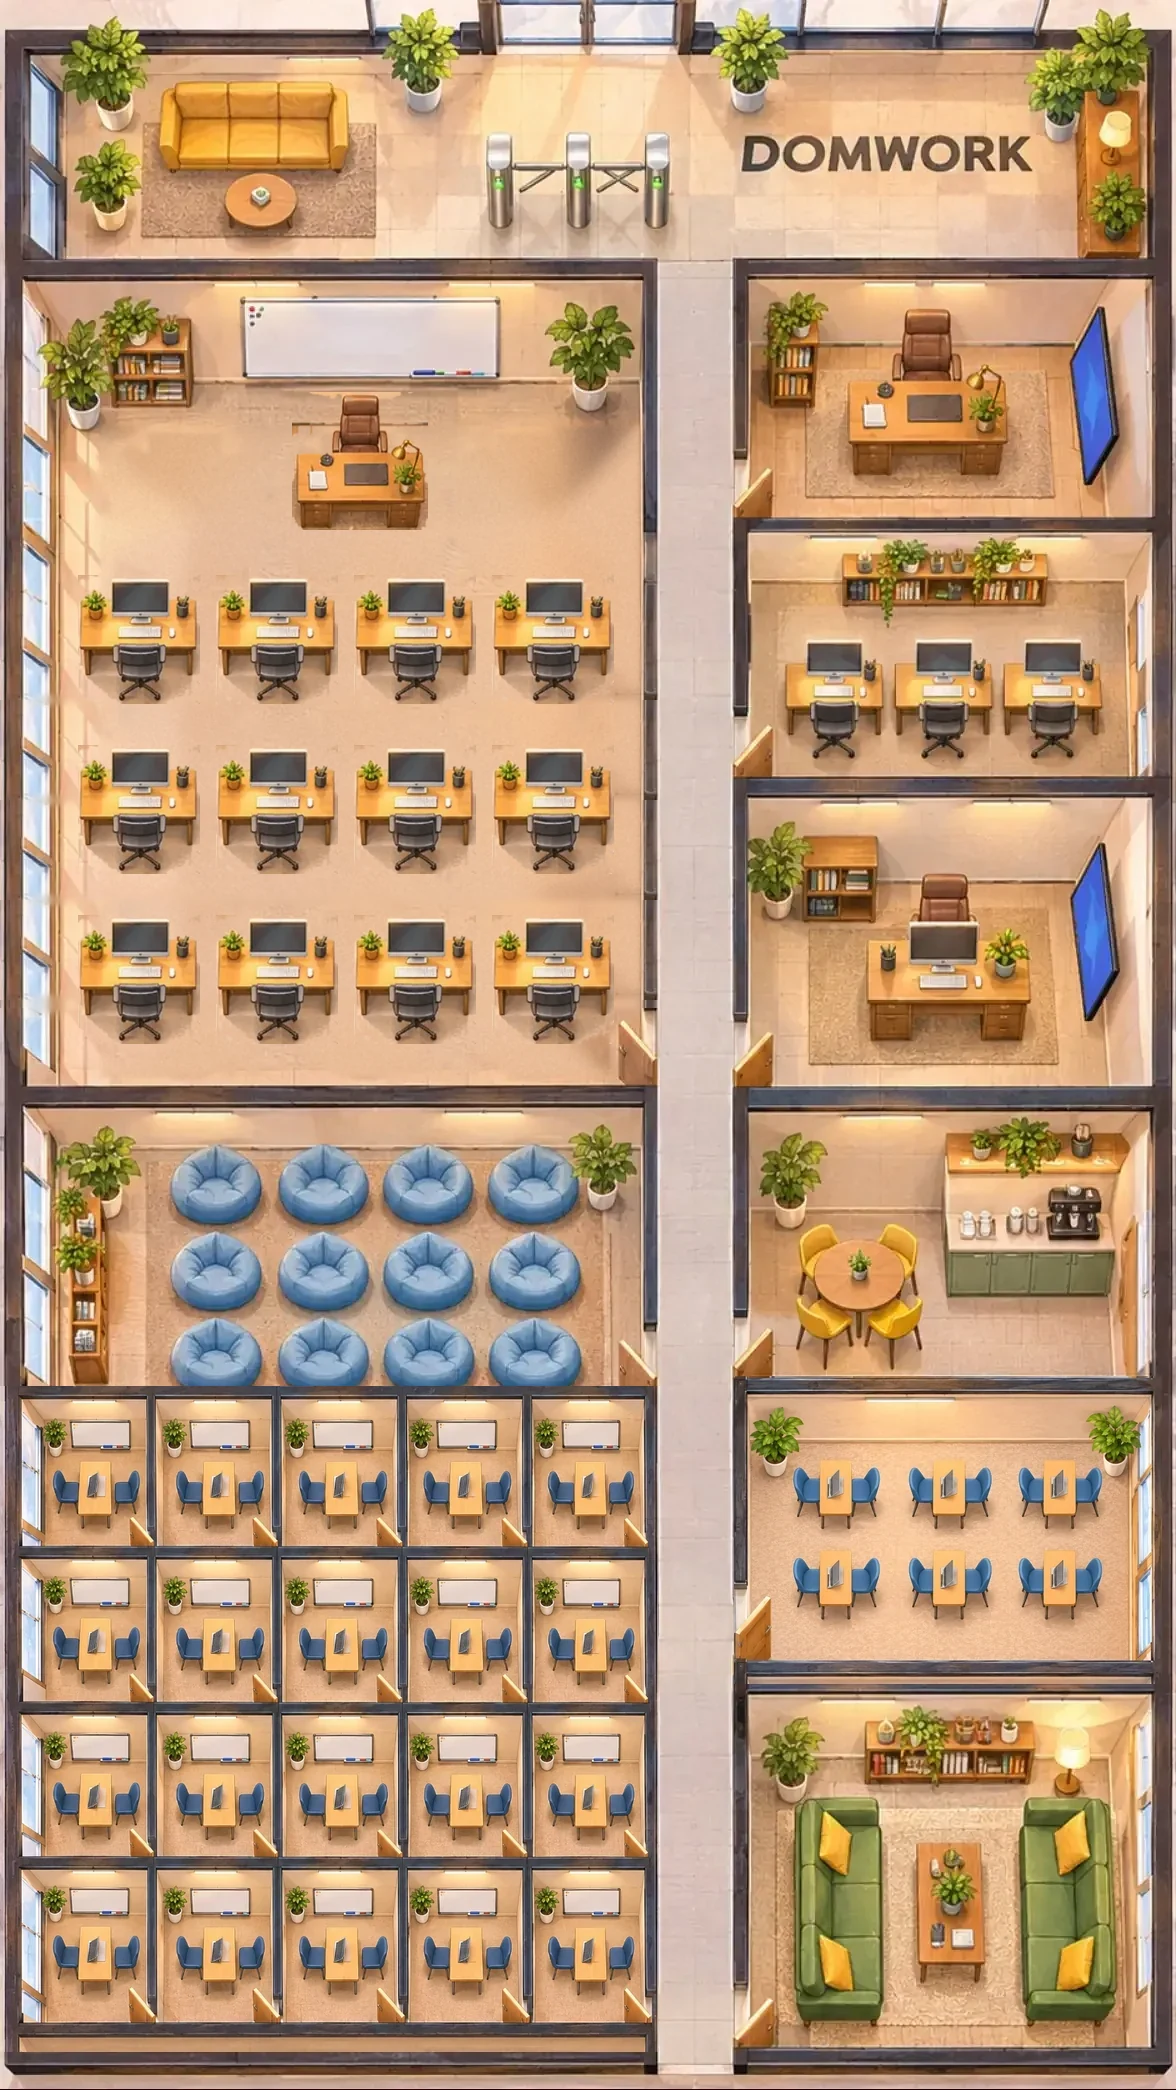
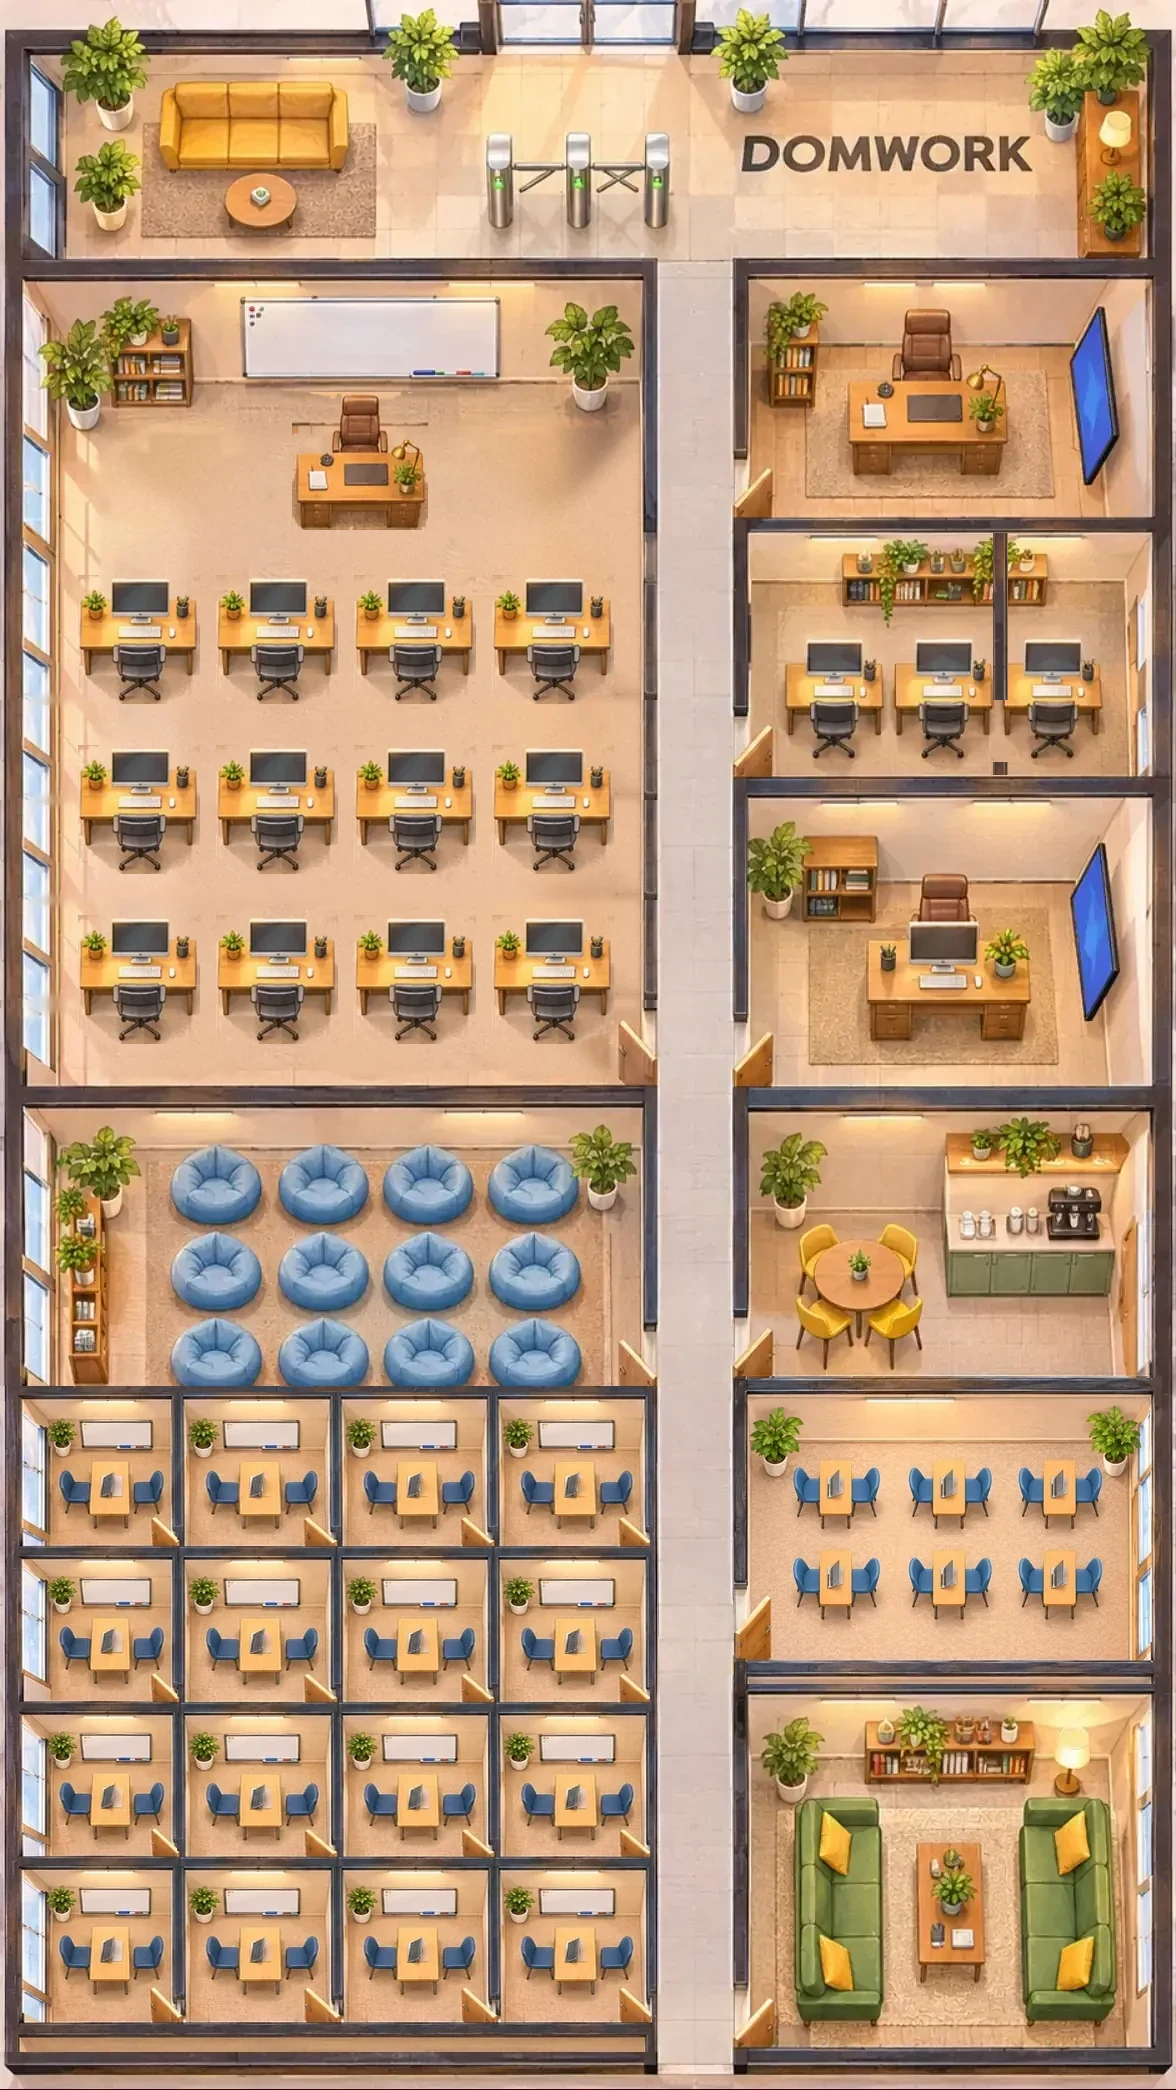
Ofis: 16 kabinka, akademik bo'lim ichki xona, Rahbar xonasi

Changed region(s): [[0.0, 0.6531, 0.551, 0.9952], [0.8265, 0.2488, 0.8571, 0.3421]]

diff --git a/ofis/ofis.js b/ofis/ofis.js
@@ -6,8 +6,8 @@ const W0 = 800, H0 = 1440, DX = 505;
 const R = {
  entrance:{x:0,y:0,w:800,h:140,label:'Kirish · Face ID',ny:145},
  sotuv:{x:0,y:150,w:495,h:650,label:"Sotuv bo'limi",ny:335},
- rop:{x:515,y:150,w:285,h:180,label:'Akademik rahbar',ny:240},
- akad:{x:515,y:340,w:285,h:180,label:'Yordamchi ustozlar',ny:430},
+ rop:{x:515,y:150,w:285,h:180,label:'Rahbar',ny:240},
+ akad:{x:515,y:340,w:285,h:180,label:"Akademik bo'lim",ny:430},
  hr:{x:515,y:530,w:285,h:270,label:'HR · Marketing',ny:665},
  oquv:{x:0,y:810,w:495,h:190,label:"O'quvchilar · mobil ilova",ny:905},
  oshxona:{x:515,y:810,w:285,h:190,label:'Oshxona · tanaffus',ny:905},
@@ -39,7 +39,7 @@ const esc=s=>String(s??'').replace(/[&<>"']/g,c=>({'&':'&amp;','<':'&lt;','>':'&
 const hash=s=>{let h=0;for(const c of String(s))h=(h*31+c.charCodeAt(0))|0;return Math.abs(h)};
 const SKIN=['#F2C9A0','#E8B58C','#D9A27A','#F5D3B3'],HAIR=['#2B1B12','#4A2E1C','#1B1B1B','#6B3E22'];
 const SH=['#1F4FD8','#0EA5E9','#7C3AED','#DB2777','#059669','#EA580C','#334155','#CA8A04'];
-const KIND_LABEL={mgr:'Sotuv menejeri',rop:'ROP',akad:'Akademik rahbar',yord:'Yordamchi ustoz',hr:'HR',teacher:'Ustoz'};
+const KIND_LABEL={boss:'Rahbar',mgr:'Sotuv menejeri',rop:'ROP',akad:'Akademik rahbar',yord:'Yordamchi ustoz',hr:'HR',teacher:'Ustoz'};
 const FEM=/a$|ya$|xon$|oy$|gul|nur|niso|sevar|zuhr|dil|mohi|shah?lo|lola|rano|feruz|kamol|madin/i;
 
 // ── Joylar (dunyo koordinatalari, rasmga IMAP orqali) ──
@@ -49,11 +49,15 @@ const MGR_SEATS=[];for(const r of [575,745,915])for(const c of [78,216,354,492])
 const ROP_DESK=(()=>{const w=illInv(361,425);return[w.x,w.y]})();
 // To'lov joyi — ROP stoli oldi (kassa xonasi yo'q); tushum ekrani sotuv xonasida.
 const PAY=(()=>{const w=illInv(361,555);return[w.x,w.y]})();
-const ROP_SEAT=[585,282], AK_SEATS=[[585,437],[670,437],[752,437],[630,480]], HR_SEAT=[600,692];
+const ROP_SEAT=[585,282], HR_SEAT=[600,692];
+// Akademik bo'lim (16-noy): kirishda yordamchi ustozlar (2 stol), devor ortida — akademik rahbar (ichkari, yordamchilar xonasi orqali kiriladi).
+const AK_SEATS=[[585,437],[670,437],[630,480],[560,480]], AKAD_IN=[752,437];
+const INNER=(()=>{const a=illInv(984,731),b=illInv(1018,731),w=illInv(1000,731);return{x:w.x,a,b}})();
 const BAGS=[];for(let r=0;r<3;r++)for(let c=0;c<4;c++)BAGS.push([52+c*108,887.4+r*39.4]);
 // Jonli darslar: 20 ta 1+1 kabinka (rasm koordinatalari). Har birida stol, chapda ustoz, o'ngda o'quvchi.
-const CABX=[97,220,343,467,591],CABY=[1488,1645,1800,1953],CWX=[20,151,276,401,528,650],CWY=[1392,1549,1707,1864,2025];
-const CAB=[];for(let r=0;r<4;r++)for(let c=0;c<5;c++)CAB.push({cx:CABX[c],cy:CABY[r],x0:CWX[c],x1:CWX[c+1],y0:CWY[r],y1:CWY[r+1]});
+// 16-noy: 4×4 = 16 ta kattaroq kabinka (avval 5×4 = 20 ta).
+const CABX=[112,261,419,576],CABY=[1488,1645,1800,1953],CWX=[20,177,335,492,650],CWY=[1392,1549,1707,1864,2025];
+const CAB=[];for(let r=0;r<4;r++)for(let c=0;c<4;c++)CAB.push({cx:CABX[c],cy:CABY[r],x0:CWX[c],x1:CWX[c+1],y0:CWY[r],y1:CWY[r+1]});
 // Sinov darslari zali: 6 ta 1+1 stol (rasm koordinatalari; ustoz chapda, o'quvchi o'ngda).
 const TRIAL_I=[[836,1485],[950,1485],[1060,1485],[836,1576],[950,1576],[1060,1576]];
 const LOUNGE=[[565,1305],[630,1305],[695,1305],[755,1305],[600,1392],[715,1392],[660,1260]];
@@ -74,7 +78,9 @@ function mkPerson(id,o){let p=people.get(id);if(p)return Object.assign(p,o);cons
 function moveTo(p,room,x,y,cb){const pts=[];
  if(p.room==='outside'){pts.push({x:400,y:95,gate:1});pts.push({x:DX,y:R.entrance.ny});p.room='entrance'}
  if(room==='outside'){if(p.room!=='entrance')pts.push({x:DX,y:R[p.room].ny});pts.push({x:DX,y:R.entrance.ny});pts.push({x:400,y:95,gate:2});pts.push({x:400,y:-34})}
- else{if(p.room!==room){pts.push({x:DX,y:R[p.room].ny});pts.push({x:DX,y:R[room].ny})}pts.push({x,y})}
+ else{if(p.room!==room){pts.push({x:DX,y:R[p.room].ny});pts.push({x:DX,y:R[room].ny})}if(room==='akad'&&x>INNER.x&&!(p.room==='akad'&&p.x>INNER.x&&!pts.length))pts.push(INNER.a,INNER.b);pts.push({x,y})}
+ // ichkari (akademik rahbar) xonasidan chiqish — eshik orqali
+ if(p.room==='akad'&&p.x>INNER.x&&p.visible&&!(room==='akad'&&x>INNER.x))pts.unshift({...INNER.b},{...INNER.a});
  p.path=pts;p.room=room;p.cb=cb}
 function place(p,room,x,y){p.room=room;p.x=x;p.y=y;p.path=[];p.visible=true}
 function say(p,icon,text,sec=6,color){if(p)p.bubble={icon,text,until:performance.now()+sec*1000,color}}
@@ -91,7 +97,7 @@ function mgrPos(s,k){if(!s.inOffice){mgrSeat.delete(s.id);return MGR_SEATS[k%MGR
  if(!mgrSeat.has(s.id)){const used=new Set(mgrSeat.values());let i=0;while(used.has(i))i++;mgrSeat.set(s.id,i)}
  const i=mgrSeat.get(s.id);if(i<MGR_SEATS.length)return MGR_SEATS[i];const w=illInv(110+((i-MGR_SEATS.length)%9)*58,560);return[w.x,w.y]}
 function seatFor(s,idx){if(s.kind==='mgr'){const k=idx.mgr++;return ['sotuv',...mgrPos(s,k)]}
- if(s.kind==='rop')return['sotuv',...ROP_DESK];if(s.kind==='akad')return['rop',...ROP_SEAT];if(s.kind==='yord'){const i=idx.ak++;return['akad',...(AK_SEATS[i]||[560+i*30,500])]}
+ if(s.kind==='rop')return['sotuv',...ROP_DESK];if(s.kind==='boss')return['rop',...ROP_SEAT];if(s.kind==='akad')return['akad',...AKAD_IN];if(s.kind==='yord'){const i=idx.ak++;return['akad',...(AK_SEATS[i]||[560+i*30,500])]}
  if(s.kind==='hr')return['hr',...HR_SEAT];return['hr',650+idx.x++*25,760]}
 const LUNCH_SEATS=[[560,880],[610,880],[660,880],[710,880],[760,880],[560,950],[610,950],[660,950],[710,950],[760,950]];
 function breakSpot(s,idx){if(s.now==='lunch'||s.now==='lunch_late'){const i=idx.lunch=(idx.lunch||0)+1;return['oshxona',...(LUNCH_SEATS[(i-1)%LUNCH_SEATS.length])]}
@@ -99,7 +105,7 @@ function breakSpot(s,idx){if(s.now==='lunch'||s.now==='lunch_late'){const i=idx.
 // Ustoz ofisda faqat darsda, sinovda yoki sinovga ochiq bo'sh vaqtida; tanaffus/band/smenadan tashqari — ofisdan chiqadi.
 const AWAY={break:['🚪','Tanaffusda'],leave:['🌴',"Ta'tilda"],busy:['⛔','Band'],off:['🌙','Smenada emas']};
 const awayOf=t=>AWAY[t.awayWhy]||AWAY.off;
-function teacherSpot(t,i){if(t.status==='away')return['outside'];if(t.status==='live'){const c=CAB[i%CAB.length],w=illInv(c.cx-33,c.cy+12);return['jonli',w.x,w.y]}
+function teacherSpot(t,i){if(t.status==='away')return['outside'];if(t.status==='live'){const c=CAB[i%CAB.length],w=illInv(c.cx-41,c.cy+12);return['jonli',w.x,w.y]}
  if(t.status==='trial'){const k=trialTables.get(t.id)??0,[tx,ty]=TRIAL_I[k],w=illInv(tx-28,ty+12);return['sinov',w.x,w.y]}
  const l=LOUNGE[i%LOUNGE.length];return['bosh',l[0],l[1]]}
 const trialTables=new Map();
@@ -309,7 +315,7 @@ function drawPerson(p){const moving=p.path.length>0,bob=moving?Math.abs(Math.sin
  if(p.kind==='stud'){ctx.fillStyle='#14213D';rr(x-4,y-17,8,11,2);ctx.fill();ctx.fillStyle='#60A5FA';rr(x-3,y-16,6,8,1);ctx.fill()}}
 function chip(x,y,t,bg,fg){ctx.font='900 15px Nunito';const w=ctx.measureText(t).width+20;ctx.fillStyle=bg;rr(x,y,w,26,13);ctx.fill();ctx.fillStyle=fg;ctx.textAlign='left';ctx.fillText(t,x+10,y+18)}
 const COLS=[['Yangi','#1F4FD8',['yangi-lidlar']],['Urinilmoqda','#F59E0B',['boglanishga-urinilmoqda']],['Sinov','#7C3AED',['sinov-darsida','boglanildi']],['Qaror','#0EA5E9',['qaror-jarayonida','keyin-sotib-olmoqchi']],["To'lov",'#16A34A',['tolov-jarayonida','tolov-yopildi']],['Sifatsiz','#94A3B8',['sifatsiz-lidlar','muvaffaqiyatsiz-sotuv']]];
-let IMG=new Image();IMG.src='/ofis/office.webp?v=20261116k'; // rasm almashtirilsa versiyani oshiring (brauzer 4 soat keshlaydi)
+let IMG=new Image();IMG.src='/ofis/office.webp?v=20261116m'; // rasm almashtirilsa versiyani oshiring (brauzer 4 soat keshlaydi)
 function render(){
  ctx.setTransform(dpr,0,0,dpr,0,0);ctx.fillStyle='#E9DCC7';ctx.fillRect(0,0,cw,ch);
  ctx.save();ctx.scale(cam.s,cam.s);ctx.translate(-cam.x,-cam.y);
@@ -333,7 +339,7 @@ function render(){
    const s=live?['#DC2626',t.nowStudents.length>1?`LIVE · ${t.nowStudents.length} o'q.`:'LIVE']:t.status==='trial'?['#1F4FD8','Sinovda']:t.status==='away'?['#CBD5E1',awayOf(t)[1]]:['#94A3B8',"Bo'sh"];
    ctx.font='900 9px Nunito';const w=ctx.measureText(s[1]).width+12;ctx.fillStyle=s[0];rr(bx-w/2,by+2,w,13,6.5);ctx.fill();ctx.fillStyle='#fff';ctx.fillText(s[1],bx,by+11.5);
    if(t.dav==='ok'||t.dav==='pending'){ctx.font='11px sans-serif';ctx.fillText(t.dav==='ok'?'✅':'⏳',bx+44,by-4)}
-   if(live&&t.nowStudents.length){const sd=t.nowStudents[0],x=c.cx+33,y=c.cy-8,h=hash(sd.id);ctx.fillStyle=SH[h%SH.length];rr(x-10,y+4,20,16,7);ctx.fill();
+   if(live&&t.nowStudents.length){const sd=t.nowStudents[0],x=c.cx+41,y=c.cy-8,h=hash(sd.id);ctx.fillStyle=SH[h%SH.length];rr(x-10,y+4,20,16,7);ctx.fill();
     face(x,y,{skin:SKIN[h%4],hair:HAIR[(h>>3)%4],female:FEM.test(sd.name)},10);
     if(t.nowStudents.length>1){ctx.fillStyle='#DC2626';ctx.beginPath();ctx.arc(x+12,y-10,8,0,7);ctx.fill();ctx.fillStyle='#fff';ctx.font='900 9px Nunito';ctx.fillText('+'+(t.nowStudents.length-1),x+12,y-7)}}
    ctx.textAlign='left'});
